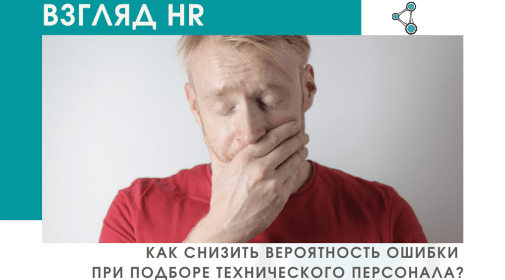
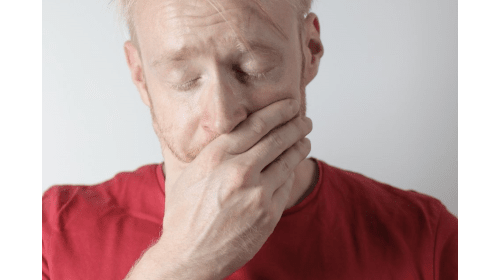
fixes

diff --git a/blog-280721.php b/blog-280721.php
@@ -60,7 +60,7 @@
                             <div class="entry-content notopmargin" style="text-align: justify"><!--class="col_half col_last">-->
 
                                 <div class="col_half">
-                                    <img src="images/blog/full/280721.jpg" alt="Blog 190721">
+                                    <img src="images/blog/full/280721.png" alt="Blog 280721">
                                 </div>
 
                                 <p>Свидетельство о квалификации – документ государственного образца, подтверждающий успешное прохождение профессионального экзамена в рамках №238-ФЗ «О независимой оценке квалификации».<br>

diff --git a/blog.php b/blog.php
@@ -187,7 +187,7 @@
                                 </div>
                                 <div class="entry-c col_three_forth col_last">
                                     <div class="entry-title">
-                                        <h2><a href="blog-280721.php"></a></h2>
+                                        <h2><a href="blog-280721.php">Что такое свидетельство о квалификации?</a></h2>
                                     </div>
                                     <ul class="entry-meta clearfix" style="height: 30px">
                                         <li><i class="icon-calendar3"></i> 28/07/2021</li>
